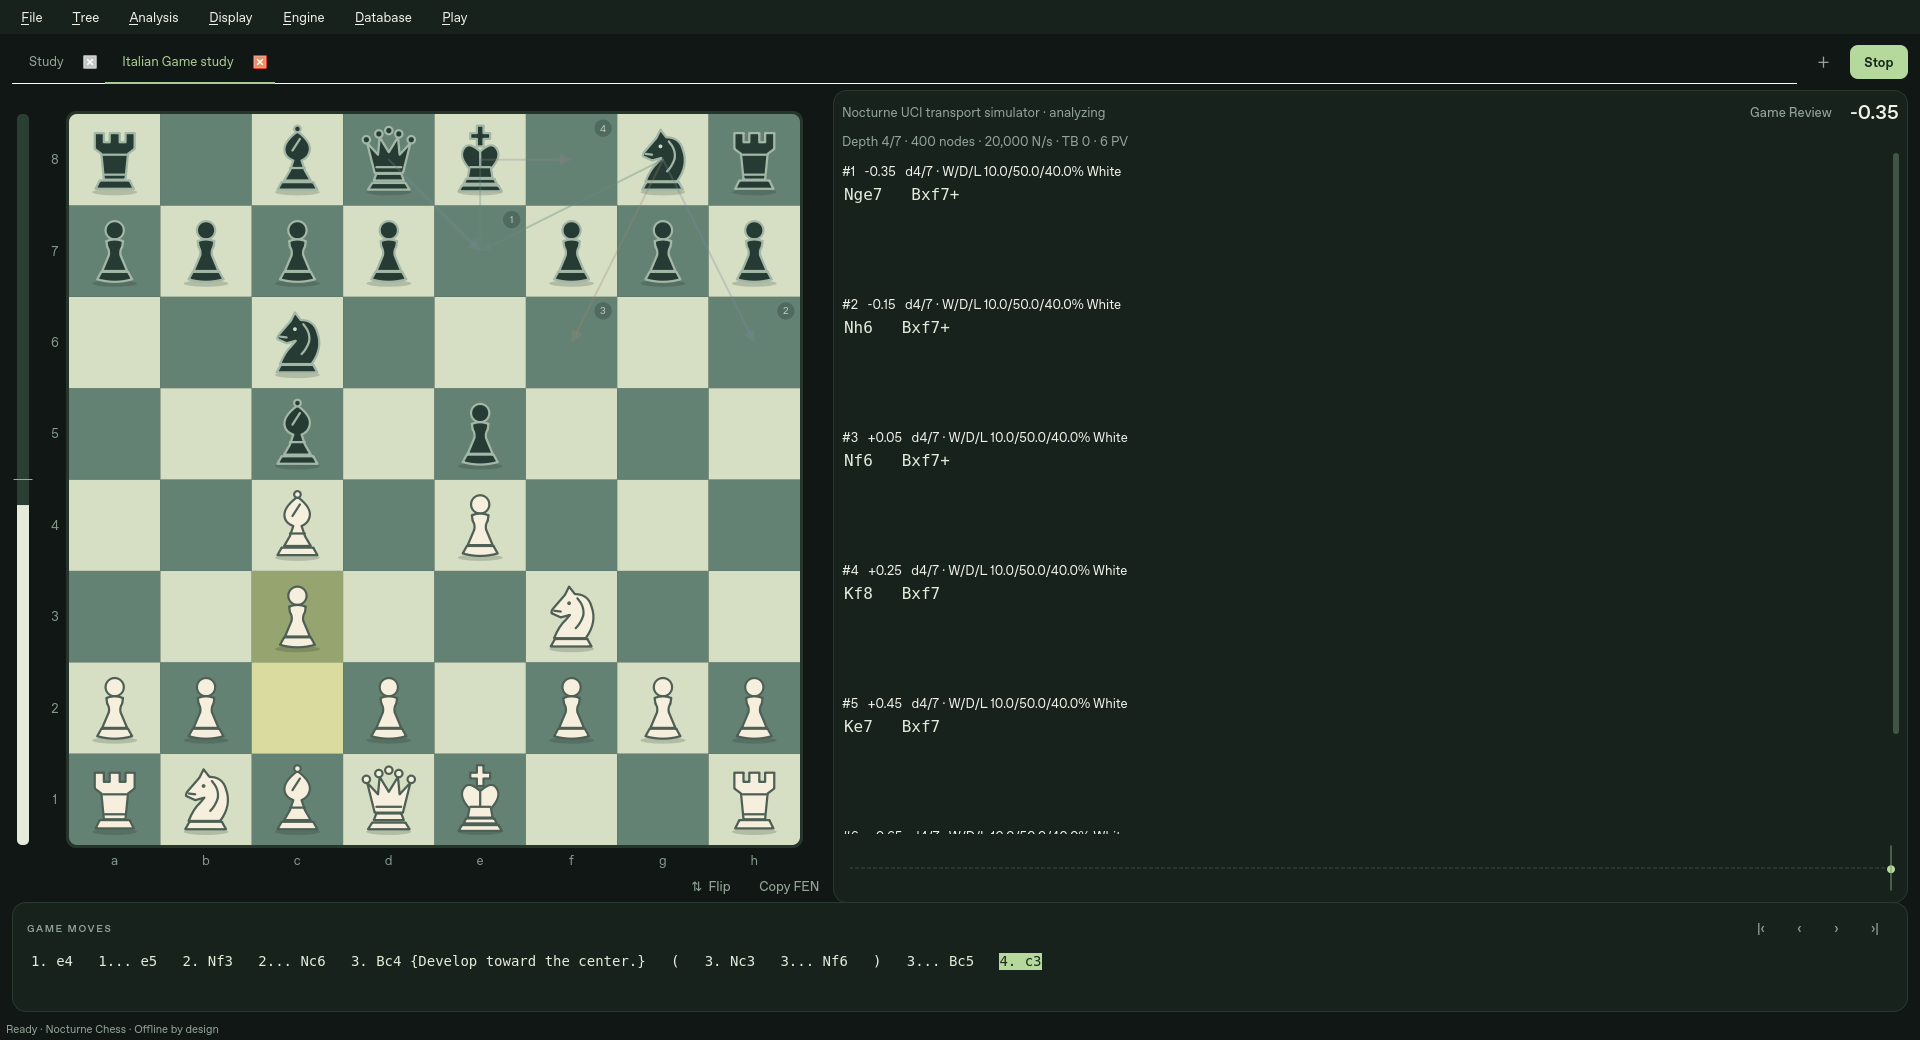
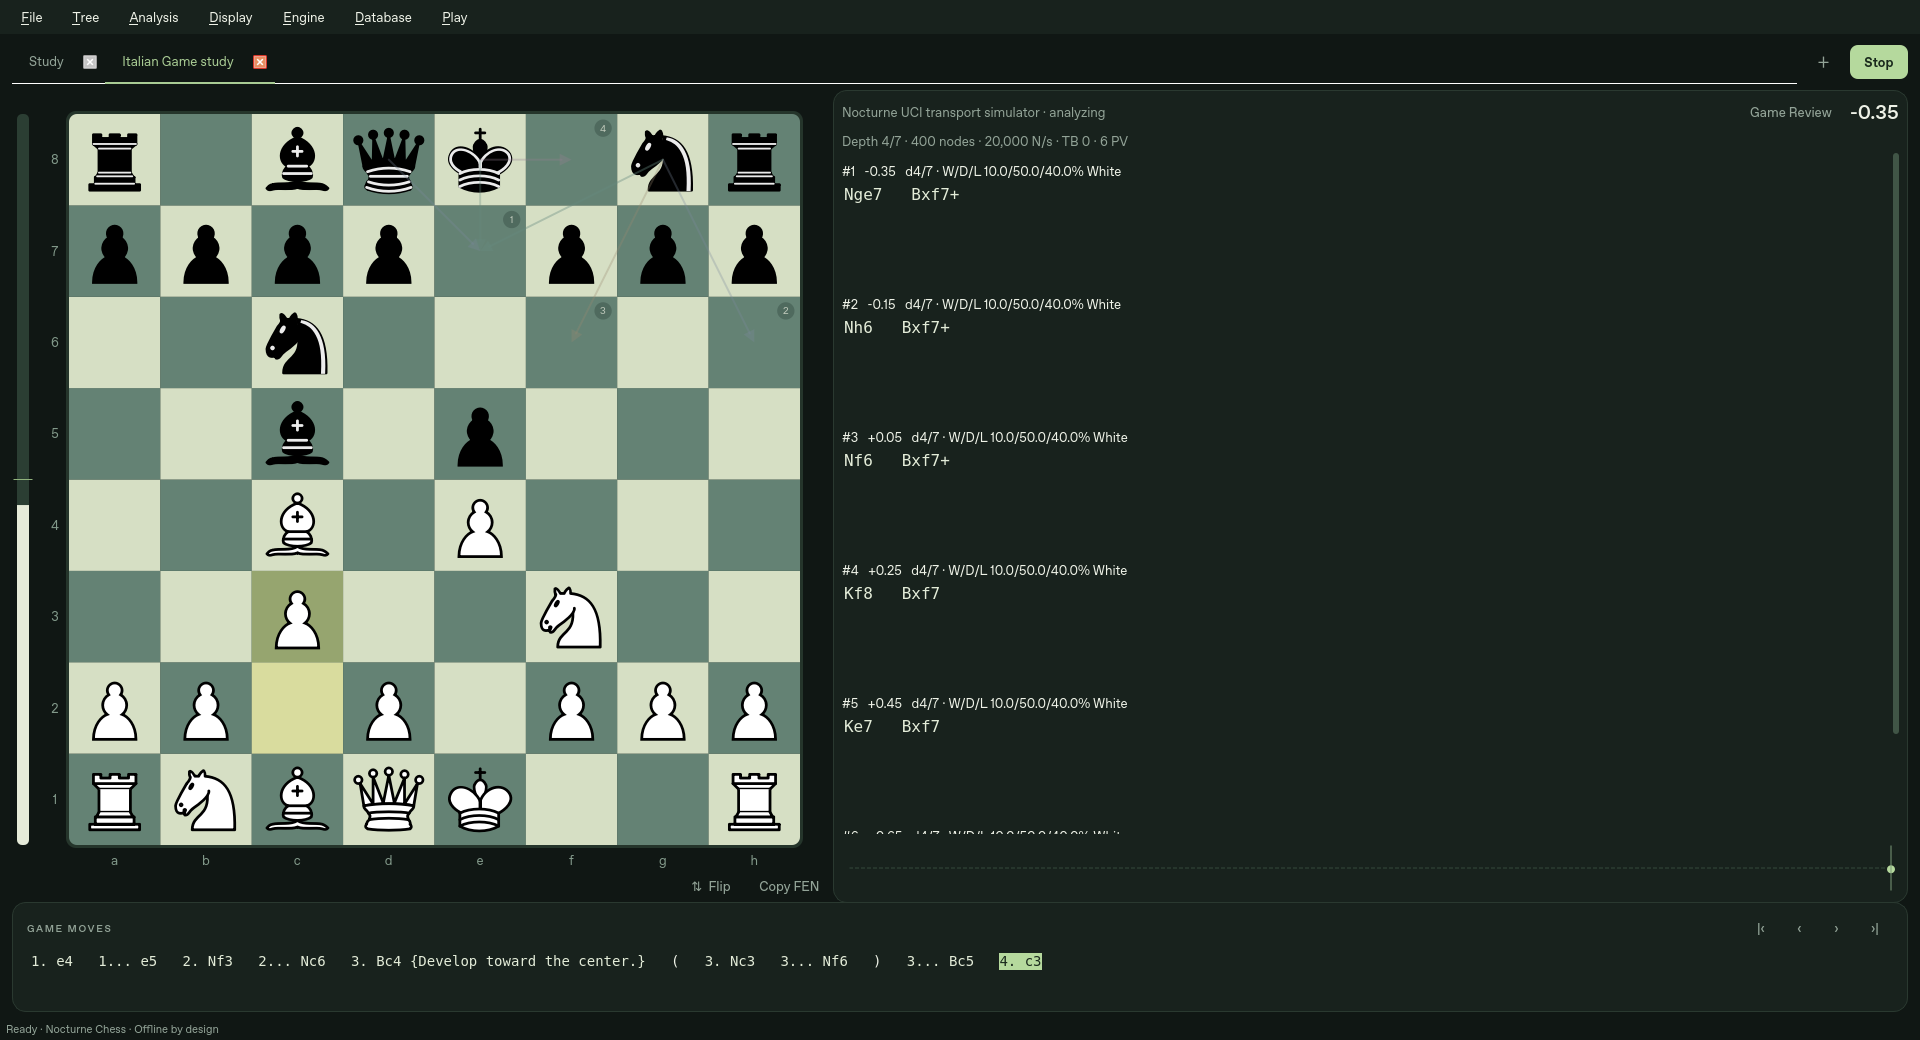
Add exact licensed Cburnett pieces to working 0.5.7.1 base (0.5.7.2)

diff --git a/src/nocturne/__init__.py b/src/nocturne/__init__.py
@@ -1,3 +1,3 @@
 """Nocturne: native, offline chess analysis with user-supplied UCI engines."""
 
-__version__ = "0.5.7.1"
+__version__ = "0.5.7.2"

diff --git a/PROGRESS.md b/PROGRESS.md
@@ -1562,3 +1562,51 @@ Only docs follow the passing native commit. The optional API check again returne
 is not claimed. User-machine Smart App Control acceptance, manual DPI and actual
 engine interaction remain unverified. This patch restores the requested baseline;
 it is not claimed to resolve or bypass the unconfirmed Windows trust decision.
+
+
+## 2026-10-18 — 0.5.7.2 piece artwork only
+
+User confirms 0.5.7.1 works and requests adding only the different pieces.
+Verified the complete local tracked manifest matches confirmed working GitHub
+commit 40f185ec20e2acd5dbcb464c7d0e848dfbbd800d before editing. Replaced only the
+12 assets/pieces/*.svg files with the exact Lichess Cburnett sources at lila
+commit cd2656d2787a766ba743da8da1dd3b24975e6329. All twelve local Git blob hashes
+match that pinned upstream directory; only filename case is normalized. GPLv2+
+art by Colin M. L. Burnett is compatible with this GPL-3.0-or-later distribution.
+Added licenses/CBURNETT-GPL-2.0-or-later.txt and CBURNETT-NOTICE.txt and corrected
+THIRD_PARTY_NOTICES.md. Using .txt for credits lets existing wheel/source license
+patterns collect them, so no packaging-pattern/specification change is needed.
+
+Versioned 0.5.7.2 in pyproject, __init__, Windows version strings and artifact
+paths. All GUI/rules/engine/controller/test/settings code, piece sizing, clock
+UI, three-line MultiPV behavior, build script, PyInstaller spec, MANIFEST and
+requirements remain byte-identical to working 0.5.7.1. No tooltip, launcher,
+clock option, dependency or signing change. No new test mirrors the asset swap;
+existing GUI coverage includes drag/click/animation/promotion and PV behavior.
+
+Ruff passed. Both python -m nocturne --smoke-test commands exited 0 (offline and
+external UCI using the local protocol fixture, including two-move Game Review).
+Executed a real Qt renderer/icon check: all twelve QSvgRenderers are valid,
+produce nontransparent pixels and provide non-null promotion QIcon pixmaps.
+Captured/visually inspected dark 1920×1040, compact 1024×660 and light 1440×1040
+actual Qt windows. Pieces are clear at the existing size; rendering code stays
+unchanged. Simulator scores are explicitly labelled. Updated docs previews,
+README, CHANGELOG and TODO. Focused GUI suite is running; next is archive/license
+verification and native Windows full tests/build before changing the download.
+
+
+Focused command completed:
+QT_QPA_PLATFORM=offscreen .venv/bin/python -m unittest discover -s tests -p test_gui.py -q
+39 tests passed in 34.387s, no failures. This asset-only patch does not require
+re-running unrelated local engine suites; the unchanged Windows workflow runs
+full discovery twice before packaging. Both actual app smoke commands exited 0.
+
+
+Archive checks completed: scripts/package_source.py and pip wheel --no-deps
+--no-build-isolation both succeeded. Both archives pass ZIP integrity checks,
+include GPL and author-credit texts plus all twelve byte-identical pinned SVGs,
+and contain no EXE/batch/PowerShell launcher. Wheel SHA-256:
+9ad6c8ca1253e8d516dcef35cfc911b04d55351e2aed815b99b3606c04573269.
+Rechecked source diff: all 63 Python files except version-only __init__.py are
+byte-identical to working 0.5.7.1; spec, MANIFEST and all requirements also match.
+Next: publish the asset-only update and execute native Windows validation.

diff --git a/THIRD_PARTY_NOTICES.md b/THIRD_PARTY_NOTICES.md
@@ -1,8 +1,9 @@
 # Distribution notices · Nocturne Analysis 0.5
 
 The combined analysis application is distributed under GPL-3.0-or-later (COPYING)
-because of its runtime python-chess dependency. Original Nocturne code and SVG
-pieces/icon retain their MIT license grant (LICENSE). No Nibbler implementation
+because of its runtime python-chess dependency. Original Nocturne code and application
+icon retain their MIT license grant (LICENSE). The bundled Cburnett pieces are
+GPL-2.0-or-later, credited separately below. No Nibbler implementation
 or assets, and no Stockfish executable/neural network/table files are bundled.
 
 ## Runtime
@@ -64,6 +65,19 @@ disabled. Service results are kept separate from local engine evaluations.
 
 The independent Python review implementation uses numerical score/accuracy curves
 published by Lichess, with Nocturne-specific aggregation, classifications and
-same-root search comparisons. No Lichess server/Scala code or assets are bundled.
+same-root search comparisons. No Lichess server/Scala code is bundled.
 The estimates differ from Lichess game accuracy and are not endorsed by Lichess.
 Method and upstream references: docs/REVIEW.md.
+
+
+### Cburnett chess pieces from Lichess
+
+All twelve SVG pieces are the exact Cburnett set by Colin M. L. Burnett, licensed
+GPL-2.0-or-later. Source files are unchanged; filenames are normalized to lowercase.
+Pinned upstream source:
+https://github.com/lichess-org/lila/tree/cd2656d2787a766ba743da8da1dd3b24975e6329/public/piece/cburnett
+The upstream COPYING.md exceptions table credits Colin M.L. Burnett and GPLv2+.
+Retain licenses/CBURNETT-NOTICE.txt and
+licenses/CBURNETT-GPL-2.0-or-later.txt, which accompany the native app, wheel and
+source archive. The SVGs themselves are the preferred modifiable artwork source.
+No Chess.com or Nibbler artwork is included; no Lichess endorsement is implied.

diff --git a/README.md b/README.md
@@ -1,4 +1,4 @@
-# Nocturne Analysis · 0.5.7.1
+# Nocturne Analysis · 0.5.7.2
 
 A native, offline Windows chess analysis GUI inspired by Nibbler. You supply
 Stockfish or another UCI executable. **The desktop app has no built-in engine.**
@@ -13,12 +13,15 @@ analysis. The simulator is not bundled in the application.*
 
 ## Windows: download and open
 
-**0.5.7.1 is based on 0.5.7 and adds only stable, three-line MultiPV slots.**
-It restores 0.5.7's original pieces and clock display, dependencies and packaging.
-The former 0.5.8 piece/clock changes are excluded. The patch
-and original 0.5.7 downloads are both linked below. A rebuilt
-unsigned executable can still receive a different Windows trust decision;
-Smart App Control acceptance on the user's computer has not been verified.
+**0.5.7.2 adds only the piece artwork to the working 0.5.7.1 version.**
+The board now uses the exact Lichess Cburnett SVG set by Colin M. L. Burnett,
+licensed GPL-2.0-or-later. The same assets appear on the board, during dragging/
+animation and in promotion choices. Existing piece sizing, clocks, three-line
+MultiPV slots, engine settings and build dependencies are unchanged. Artwork
+source/credits are in [third-party notices](THIRD_PARTY_NOTICES.md).
+The working 0.5.7.1 download remains linked until 0.5.7.2's native validation
+finishes. These are unsigned developer builds; acceptance by the user's Windows
+configuration must still be checked on their computer.
 
 [Download the tested, unsigned Windows 0.5.7.1 ZIP](https://github.com/understandingothers789-pixel/nocturne-chess/actions/runs/39088586425/artifacts/12121976207) (GitHub sign-in required).
 

diff --git a/TODO.md b/TODO.md
@@ -55,3 +55,10 @@ passed twice: 148 passed, 5 optional skips each; packaged GUI/UCI/Game Review
 checks passed. The 0.5.7.1 Windows download is verified against the tested commit. Confirm the rebuilt
 patch opens on the user's Windows configuration; prior 0.5.7 acceptance does
 not establish the new executable's trust status. No 0.5.8 pieces/clock UI remain.
+
+
+0.5.7.2 adds only exact licensed Lichess Cburnett piece artwork to the user-
+confirmed working 0.5.7.1 base. All GUI behavior/sizing/clocks/PV code and build
+rules stay unchanged. Source hashes and real Qt SVG/promotion icons verified;
+lint and both app launch checks passed. Focused GUI/native Windows validation
+and packaged license checks are next. User desktop trust/DPI remains to verify.

diff --git a/CHANGELOG.md b/CHANGELOG.md
@@ -1,5 +1,13 @@
 # Changelog
 
+## 0.5.7.2 — Cburnett pieces on the working 0.5.7.1 base
+
+- Replace the twelve original SVGs with the exact Lichess Cburnett set by Colin
+  M. L. Burnett, with GPL-2.0-or-later license text, credits and pinned source.
+- Keep all board rendering, sizing, drag/promotion logic, clocks, fixed three-line
+  MultiPV slots and dependencies unchanged. No runtime feature code is modified.
+- Include the artwork's notices through existing native/wheel/source collection.
+
 ## 0.5.7.1 — 0.5.7 baseline with stable three-line MultiPV
 
 - Restore the original 0.5.7 pieces, clock display, dependencies and packaging.
